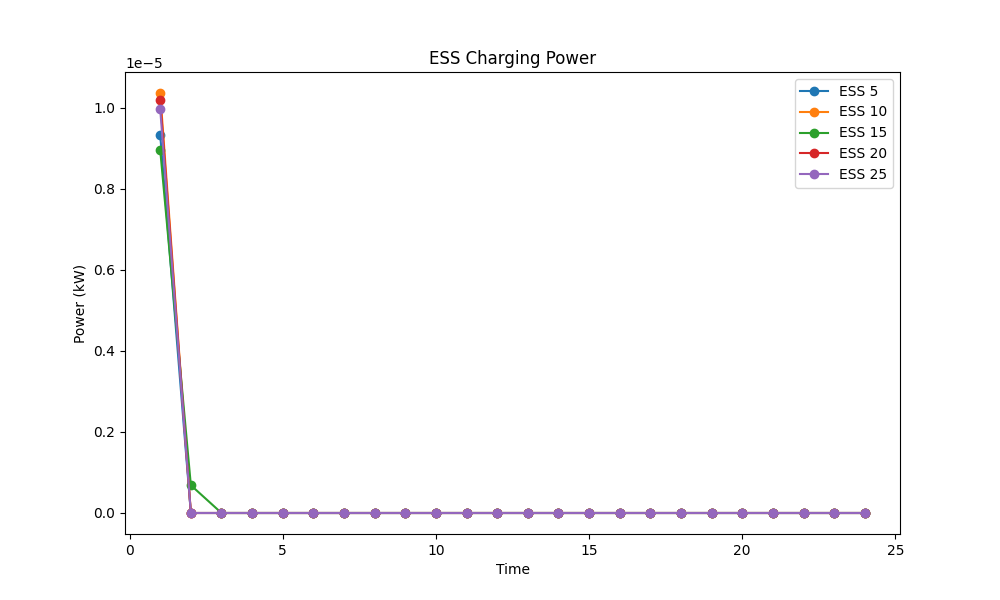
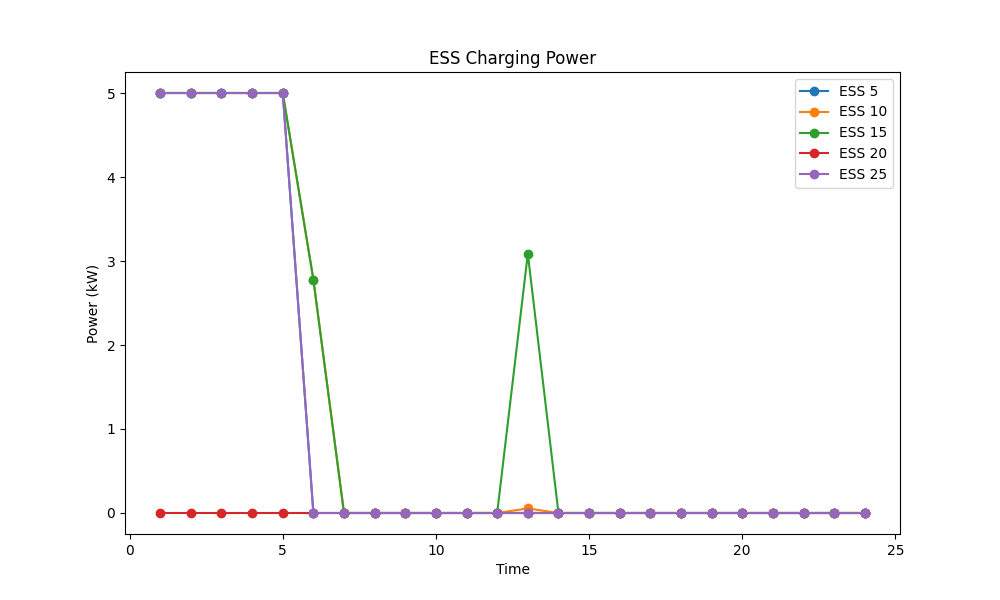
Add losses term in the objective

diff --git a/plot_res.py b/plot_res.py
@@ -20,7 +20,7 @@ def plot_optimization_results(results):
     plt.xlabel('Time')
     plt.ylabel('Power Reduction (kW)')
     plt.legend()
-    plt.savefig('Power_Reduction_by_Buildings.png')
+    plt.savefig('plots/Power_Reduction_by_Buildings.png')
 
     # Plot Reactive Power Provided by PVs
     plt.figure(figsize=(10, 6))
@@ -30,7 +30,7 @@ def plot_optimization_results(results):
     plt.xlabel('Time')
     plt.ylabel('Reactive Power (kVar)')
     plt.legend()
-    plt.savefig('Reactive_Power_Provided_by_PVs.png')
+    plt.savefig('plots/Reactive_Power_Provided_by_PVs.png')
     plt.close()
 
     # Plot ESS Charging
@@ -41,7 +41,7 @@ def plot_optimization_results(results):
     plt.xlabel('Time')
     plt.ylabel('Power (kW)')
     plt.legend()
-    plt.savefig('ESS_Charging_Power.png')
+    plt.savefig('plots/ESS_Charging_Power.png')
 
     # Plot ESS Discharging
     plt.figure(figsize=(10, 6))
@@ -51,7 +51,7 @@ def plot_optimization_results(results):
     plt.xlabel('Time')
     plt.ylabel('Power (kW)')
     plt.legend()
-    plt.savefig('ESS_Discharging_Power.png')
+    plt.savefig('plots/ESS_Discharging_Power.png')
 
     # Plot ESS Charging Indicator
     plt.figure(figsize=(10, 6))
@@ -61,7 +61,7 @@ def plot_optimization_results(results):
     plt.xlabel('Time')
     plt.ylabel('Charging Indicator (0 or 1)')
     plt.legend()
-    plt.savefig('ESS_Charging_Indicator.png')
+    plt.savefig('plots/ESS_Charging_Indicator.png')
     plt.close()
 
     # Plot Voltage Profiles
@@ -72,7 +72,7 @@ def plot_optimization_results(results):
     plt.xlabel('Time')
     plt.ylabel('Voltage (p.u.)')
     plt.legend()
-    plt.savefig('Voltage_at_Buses.png')
+    plt.savefig('plots/Voltage_at_Buses.png')
 
     # Plot Active Power Load
     plt.figure(figsize=(10, 6))
@@ -82,7 +82,7 @@ def plot_optimization_results(results):
     plt.xlabel('Time')
     plt.ylabel('Power (kW)')
     plt.legend()
-    plt.savefig('Active_Power_Load.png')
+    plt.savefig('plots/Active_Power_Load.png')
     plt.close()
 
     # Plot Reactive Power Load
@@ -93,7 +93,7 @@ def plot_optimization_results(results):
     plt.xlabel('Time')
     plt.ylabel('Power (kVar)')
     plt.legend()
-    plt.savefig('Reactive_Power_Load.png')
+    plt.savefig('plots/Reactive_Power_Load.png')
     plt.close()
 
     # Plot Active Power from PVs
@@ -104,7 +104,7 @@ def plot_optimization_results(results):
     plt.xlabel('Time')
     plt.ylabel('Power (kW)')
     plt.legend()
-    plt.savefig('Active_Power_from_PVs.png')
+    plt.savefig('plots/Active_Power_from_PVs.png')
     plt.close()
 
     # Plot Active Power Flow
@@ -115,7 +115,7 @@ def plot_optimization_results(results):
     plt.xlabel('Time')
     plt.ylabel('Power (kW)')
     plt.legend()
-    plt.savefig('Active_Power_Flow_on_Lines.png')
+    plt.savefig('plots/Active_Power_Flow_on_Lines.png')
 
     # Plot Reactive Power Flow
     plt.figure(figsize=(10, 6))
@@ -125,7 +125,7 @@ def plot_optimization_results(results):
     plt.xlabel('Time')
     plt.ylabel('Power (kVar)')
     plt.legend()
-    plt.savefig('Reactive_Power_Flow_on_Lines.png')
+    plt.savefig('plots/Reactive_Power_Flow_on_Lines.png')
 
     # Plot Currents on Lines
     plt.figure(figsize=(10, 6))
@@ -135,4 +135,4 @@ def plot_optimization_results(results):
     plt.xlabel('Time')
     plt.ylabel('Current (pu)')
     plt.legend()
-    plt.savefig('Current_Flow_on_Lines.png')
+    plt.savefig('plots/Current_Flow_on_Lines.png')

diff --git a/opf.py b/opf.py
@@ -69,7 +69,11 @@ def opf_model(network_data):
 
     # Define Objective Function
     def objective_rule(model):
-        return sum(model.lambda_flex[t] * model.Pred[b, t] - model.cost_pv[g] * model.Qpv[g, t] - model.cost_ess[k] * (model.Pesc[k, t] + model.Pesd[k, t]) - model.discomfort[b] * model.Pred[b, t] for b in model.B for k in model.K for g in model.G for t in model.T)
+        return sum(model.lambda_flex[t] * model.Pred[b, t] - 
+                   model.cost_pv[g] * model.Qpv[g, t] - 
+                   model.cost_ess[k] * (model.Pesc[k, t] + model.Pesd[k, t]) - 
+                   sum(model.R[i, j] * model.Isqr[i, j, t] for (i, j) in model.L) -
+                   model.discomfort[b] * model.Pred[b, t] for b in model.B for k in model.K for g in model.G for t in model.T)
     model.obj = pyo.Objective(rule=objective_rule, sense=pyo.maximize)    
 
     # Define Constraints
@@ -135,7 +139,7 @@ def opf_model(network_data):
     model.no_simultaneous_discharge = pyo.Constraint(model.K, model.T, rule=no_simultaneous_discharge_rule)
 
     # Solve the model
-    solver = SolverFactory('mindtpy')
+    solver = SolverFactory('gurobi')
     result = solver.solve(model, tee=False)
     
     if result.solver.status != pyo.SolverStatus.ok:
